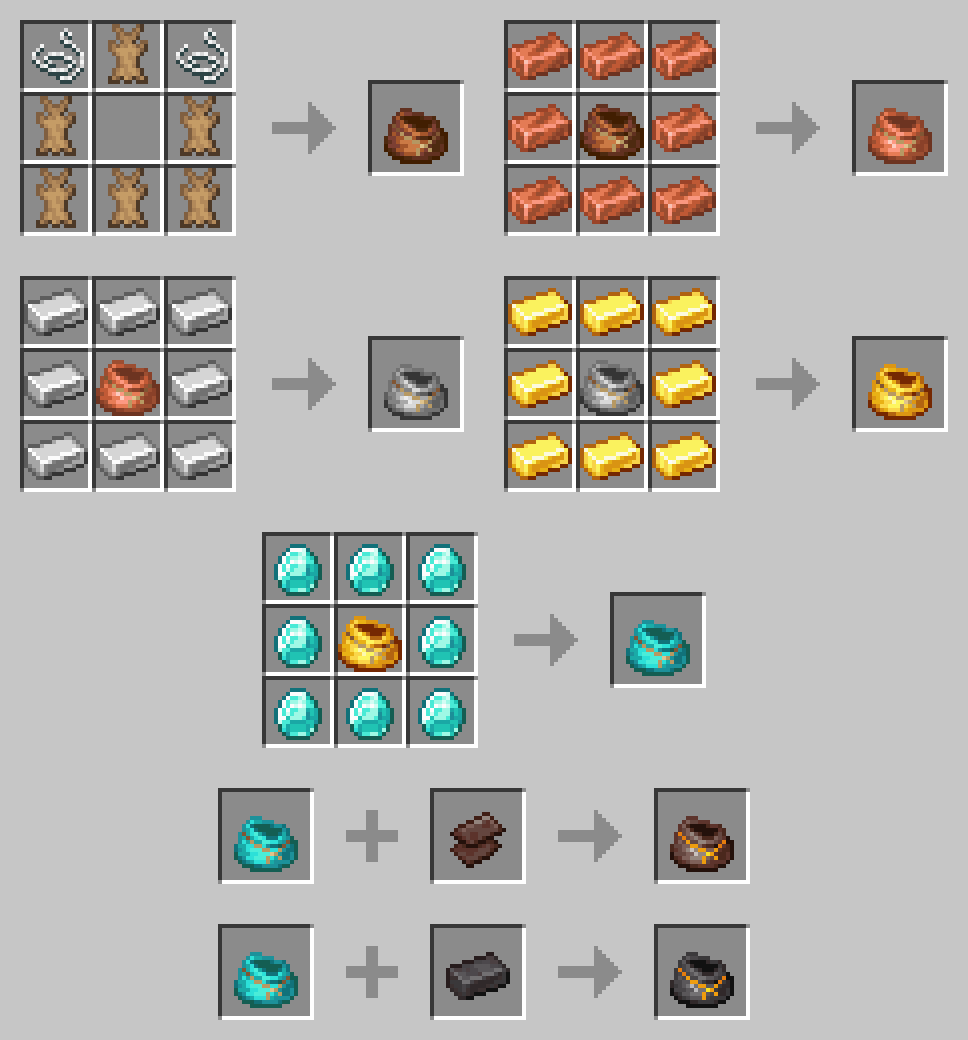
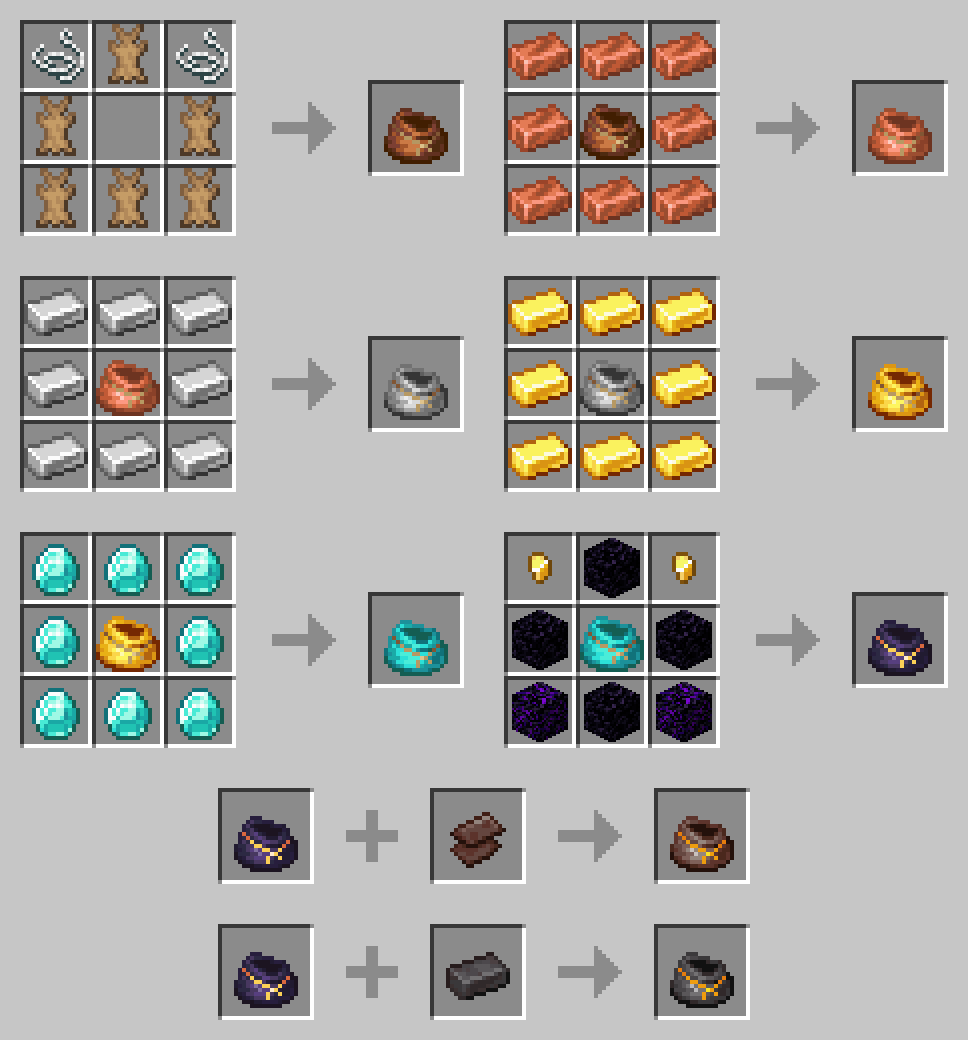
Improved readmes, Added new recipes, Added dev texture atlas Update full_all.png, netherite_chunk_bundle.png, and 10 more files...

diff --git a/mod-pages/modrinth.md b/mod-pages/modrinth.md
@@ -1,32 +1,35 @@
 # Expanded Iron Bundles
 Small mod that provides bundles with more storage space, and new functionalities in the future.
 
-## Features
-### Current
+## Current features 
 * Recipe for the vanilla bundle with rabbit hide
 * Multiple variants with more storage space and special properties
   * Copper Bundle (128 slots / 2 stacks)
   * Iron Bundle (256 slots / 4 stacks)
   * Gold Bundle (384 slots / 6 stacks)
   * Diamond Bundle (512 slots / 8 stacks)
+  * Obsidian Bundle (768 slots / 12 stacks)
   * Ancient Scraps Bundle (896 slots / 14 stacks)
   * Netherite Bundle (1024 slots / 16 stacks & Immune to fire and lava)
 
-### Planned
+## Planned features
 * Versions for Forge and previous versions of Minecraft
 * A config file to enable/disable specific bundles, change capacity
 * Better visuals for the occupancy bar
-* More bundles with special mecanics (i.e.: Ender Bundle, ...)
-* Bundle modifiers (i.e.: Piston to throw items further, ...)
-* Imrpoved bundle mecanics (i.e.: Swapping last inserted item, Thrown single stack, ...)
+* More bundles with special mechanics (i.e.: Ender Bundle, ...)
+* Bundle upgrades (i.e.: Piston to throw items further, ...)
+* Improved bundle mechanics (i.e.: Swapping last inserted item, Throw a single stack, ...)
+
+## Recipes
+Check the "*Gallery*" tab at the top of the page for a complete list of the crafting recipes.
 
 ## Versions
 ### Fabric
-✖ 1.18 and earlier - Should be comming soon...<br>
+✖ 1.18 and earlier - Should be coming soon...<br>
 ✔ 1.19 & 1.19.1 - Actively supported
 
 ### Forge
-✖ 1.18 and earlier - Should be comming soon...<br>
+✖ 1.18 and earlier - Should be coming soon...<br>
 ✖ 1.19 & 1.19.1 - Will come once Forge supports it
 
 ## Requirements
@@ -35,7 +38,7 @@ Small mod that provides bundles with more storage space, and new functionalities
 * NBT Crafting
 
 ### Forge
-N/A
+* N/A
 
 ## Known Issues
 * The original bundle is not showing in the creative menu

diff --git a/readme.md b/readme.md
@@ -3,35 +3,36 @@
 # Expanded Iron Bundles
 Small mod that provides bundles with more storage space, and new functionalities in the future.
 
-## Features
-### Current
+[See on Modrinth](https://modrinth.com/mod/expanded-iron-bundles)<br>
+[See on CurseForge](https://modrinth.com/mod/expanded-iron-bundles)
+
+## Current features
 * Recipe for the vanilla bundle
 * Multiple variants with more storage space and special properties
   * Copper Bundle (128 slots / 2 stacks)
   * Iron Bundle (256 slots / 4 stacks)
   * Gold Bundle (384 slots / 6 stacks)
   * Diamond Bundle (512 slots / 8 stacks)
+  * Obsidian Bundle (768 slots / 12 stacks)
   * Ancient Scraps Bundle (896 slots / 14 stacks)
   * Netherite Bundle (1024 slots / 16 stacks & Immune to fire and lava)
 
-### Planned
+## Planned features
 * Versions for Forge and previous versions of Minecraft
 * A config file to enable/disable specific bundles, change capacity
 * Better visuals for the occupancy bar
-* More bundles with special mecanics (i.e.: Ender Bundle, ...)
-* Bundle modifiers (i.e.: Piston to throw items further, ...)
-* Imrpoved bundle mecanics (i.e.: Swapping last inserted item, Thrown single stack, ...)
+* More bundles with special mechanics (i.e.: Ender Bundle, ...)
+* Bundle upgrades (i.e.: Piston to throw items further, ...)
+* Improved bundle mechanics (i.e.: Swapping last inserted item, Throw a single stack, ...)
 
-## Versions
-### Fabric
-* 1.18 and earlier - Should be comming soon...
-* [1.19 / 1.19.1](https://github.com/aziascreations/MC-Expanded-Iron-Bundles/tree/fabric-1.19)
+### Fabric source code
+* [1.19 / 1.19.1](https://github.com/aziascreations/MC-Expanded-Iron-Bundles/tree/fabric-1.19) - *'fabric-1.19'* branch
 
-### Forge
-Should be comming soon...
+### Forge source code
+* Should be coming soon...
 
-## Links
-TODO
+### Recipes
+<img src="images/crafts/full_all.png"/>
 
 ## License
 [Apache V2](LICENSE)
